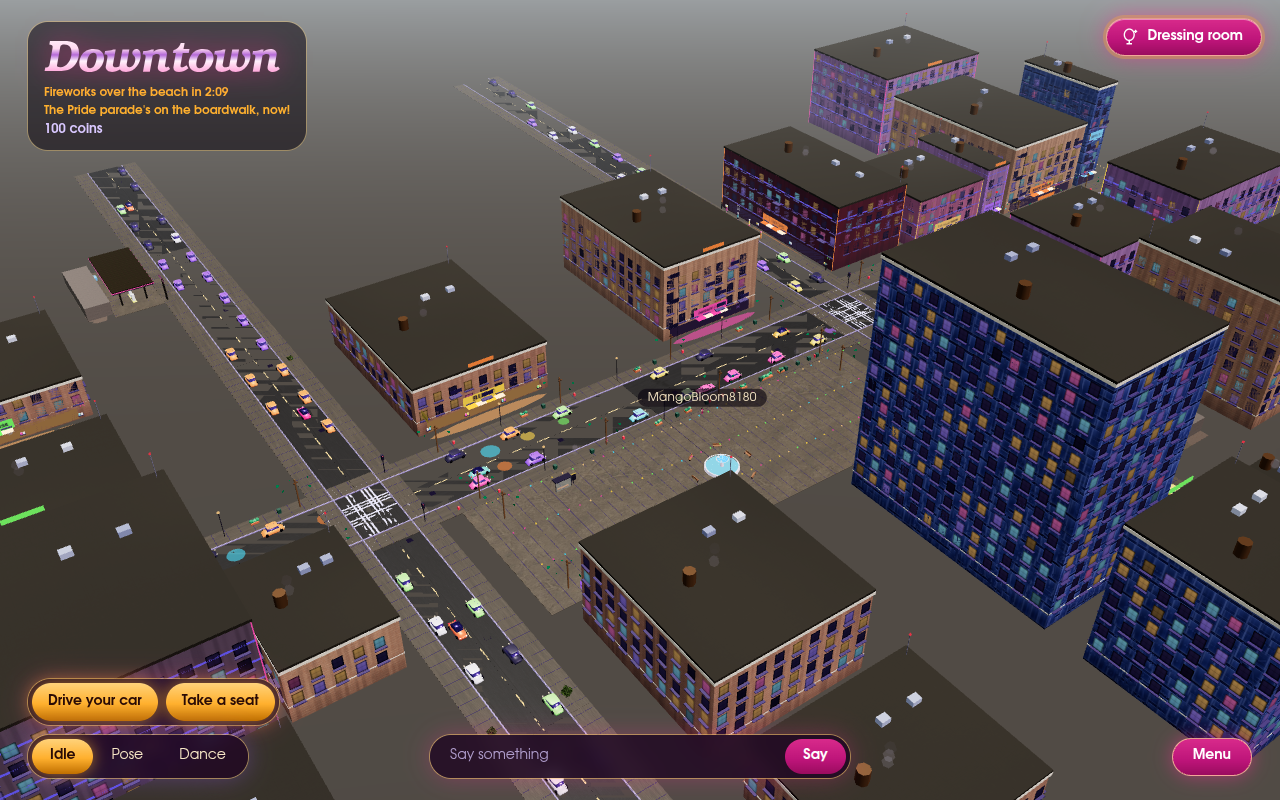
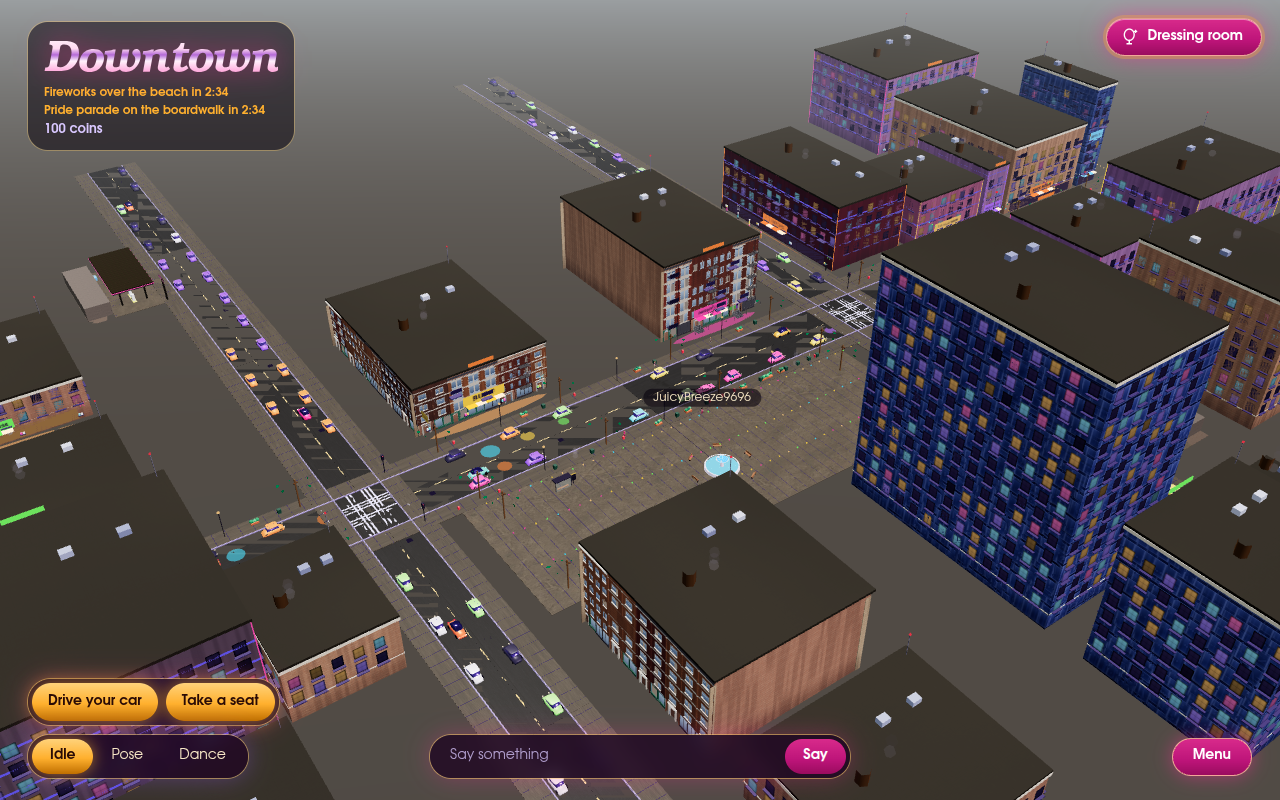
docs(screenshots): New York blocks by day, night and from the corner; low-tier bay range 40 m

diff --git a/src/client/city/CityScene.tsx b/src/client/city/CityScene.tsx
@@ -51,7 +51,7 @@ import { GasStations } from "./GasStations.tsx";
 import type { ParkedCar } from "../../game/city/drive.ts";
 
 /** How far from the player New York blocks wear real bays (meters). */
-const BAY_RANGE = { low: 45, high: 90 } as const;
+const BAY_RANGE = { low: 40, high: 90 } as const;
 /** `?bays=0` turns the New York bays off, to compare budgets. */
 const NO_BAYS = new URLSearchParams(location.search).get("bays") === "0";
 

diff --git a/scripts/screenshots.ts b/scripts/screenshots.ts
@@ -246,7 +246,6 @@ const SHOTS: {
     ["nyc-street", "12:00", "-30,-6", 0],
     ["nyc-night", "22:00", "-30,-6", 0],
     ["nyc-corner", "12:00", "-70,-8", Math.PI / 2],
-    ["nyc-corner-before", "12:00", "-70,-8&bays=0", Math.PI / 2],
   ].map(([name, time, at, yaw]) => ({
     name: String(name),
     query: `room=city&view=full&time=${time}&at=${at}&yaw=${yaw}`,
